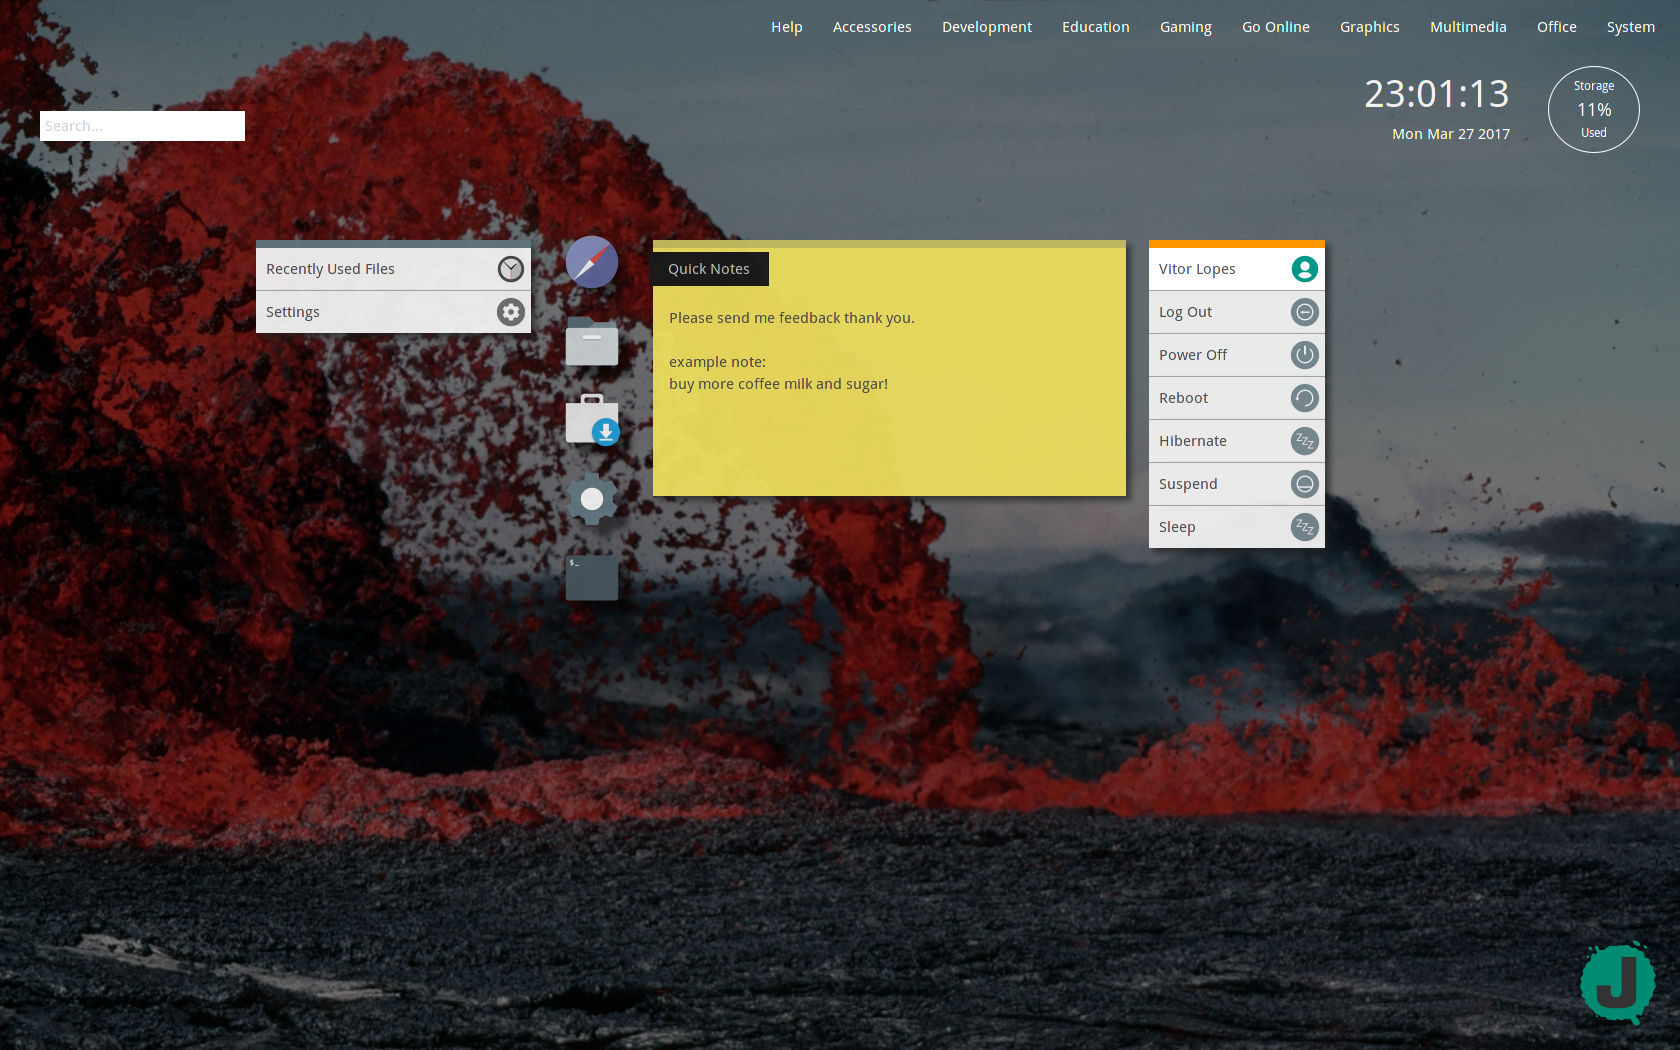
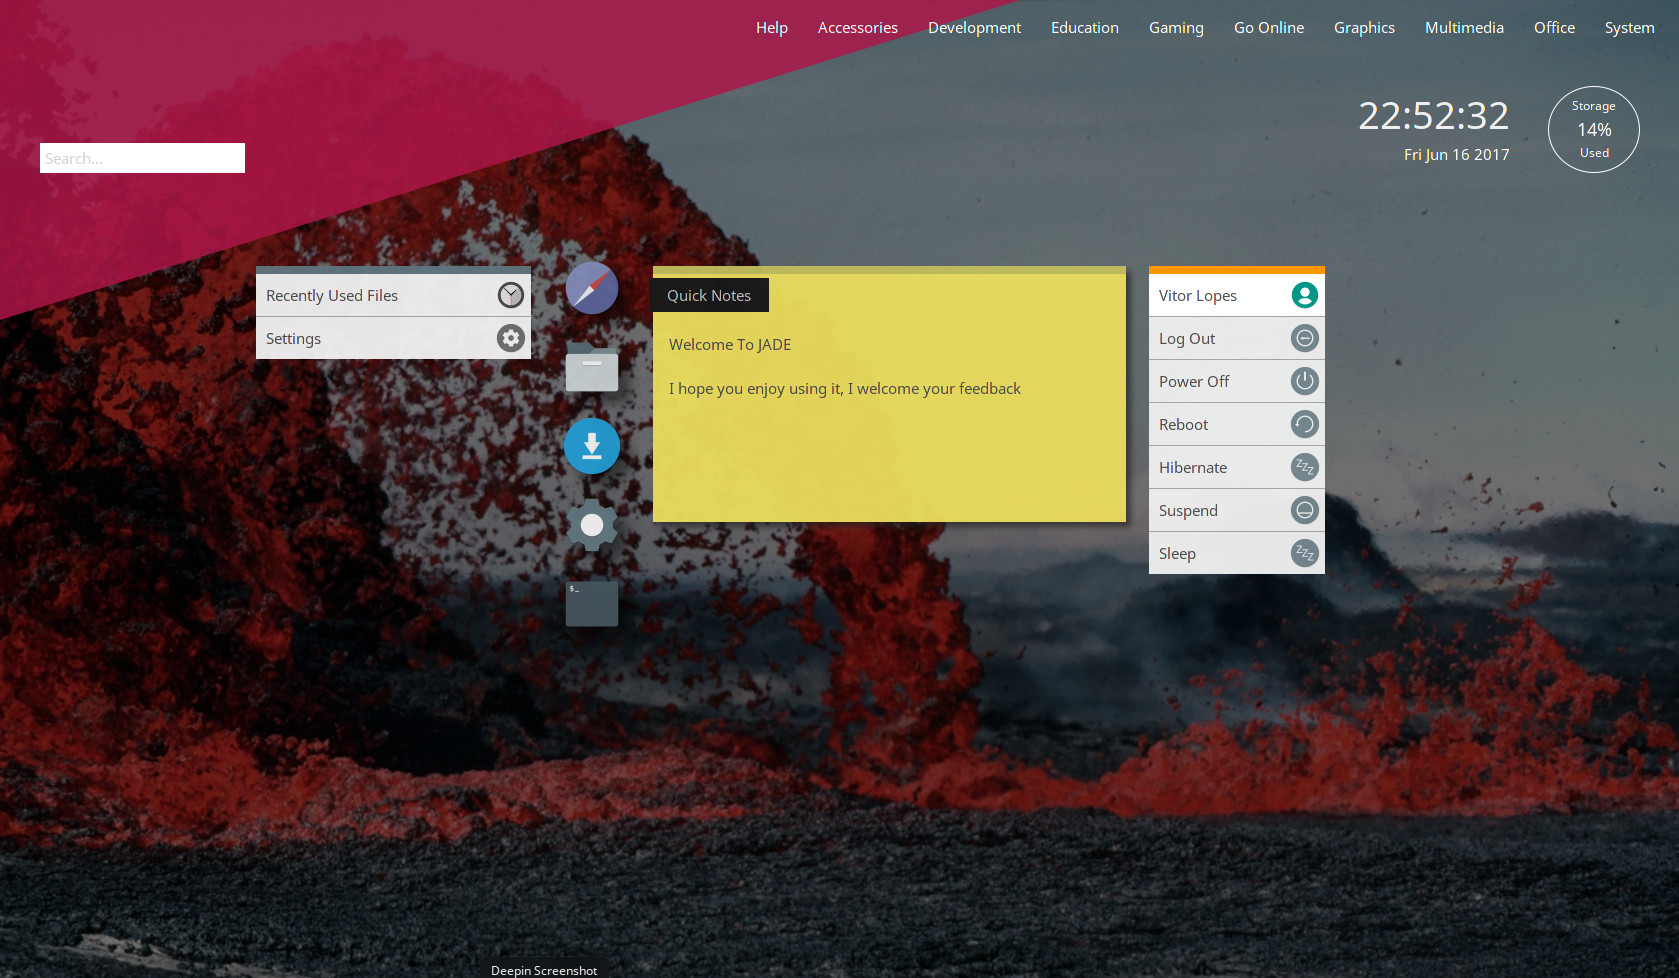
frontend fixes + ui changes

diff --git a/jade/css/jade.css b/jade/css/jade.css
@@ -3,7 +3,16 @@ body {
     height: 100%;
     margin: 0;
 }
-
+.corner-triangle {
+	border-width: 320px 1020px 0 0;
+   border-color: rgba(173, 22, 73, 0.83) rgba(0, 0, 0, 0) rgba(0, 0, 0, 0) rgba(0, 0, 0, 0.04);
+   position: absolute;
+   top: 0;
+   z-index: -99999;
+   width: 0;
+   height: 0;
+   border-style: solid;
+}
 #overlay {
     width: 100%;
     height: 100%;
@@ -85,6 +94,7 @@ header {
     right: 0;
     overflow: auto;
     padding: 20px 4px 0px 4px;
+    z-index: 999;
 }
 
 .application-box {
@@ -262,10 +272,21 @@ a:focus {
     margin-left: 10px;
     line-height: 22px;
     font-size: 16px;
-    margin-top: 4px;
+    margin-top: -65px;
     color: #f0f0f0;
+    font-weight: bold;
 }
-
+.category-msg h5 span {
+    display: block;
+}
+.category-msg h5 span:first-of-type {
+   padding-bottom: 54px;
+   margin-left: -58px;
+   font-size: 28px;
+}
+.category-msg h5 span:last-of-type {
+   margin-left: 20px;
+}
 .category-msg h5:first-letter {
     text-transform: capitalize;
 }
@@ -328,7 +349,10 @@ a:focus {
     min-height: 44px;
     padding-left: 10px;
     padding-right: 10px;
-}
+    color: #d5d5d5;
+    font-size: 13px;
+    margin-top: 10px;
+  }
 
 .used-container-files {
     margin-bottom: 60px
@@ -410,16 +434,13 @@ filter: drop-shadow(2px 2px 5px rgba(0, 0, 0, 0.5));
 #recently-used-files {
     position: fixed;
     display: none;
-    background-color: #232323;
-    top: 264px;
-    height: calc(100% - 264px);
+    background-color: rgba(23, 23, 24, 0.83);
+    top: 440px;
+    height: calc(100% - 440px);
     overflow: auto;
-    border-top: 2px dashed #ccc;
-    padding-top: 60px;
-}
-
-#recently-used-files .filename {
-    color: #ccc;
+    z-index: 999;
+    padding-top: 40px;
+    width: 100%;
 }
 
 .mini-dashboard-exit img,

diff --git a/jade/ui.html b/jade/ui.html
@@ -47,6 +47,7 @@
                     <div id="search-container">
                         <input type="text" id="search" placeholder="Search..."></div>
                 </div>
+                <div class="corner-triangle"></div>
             </header>
             <div class='dashboard container'>
                 <div class='search-results row'>
